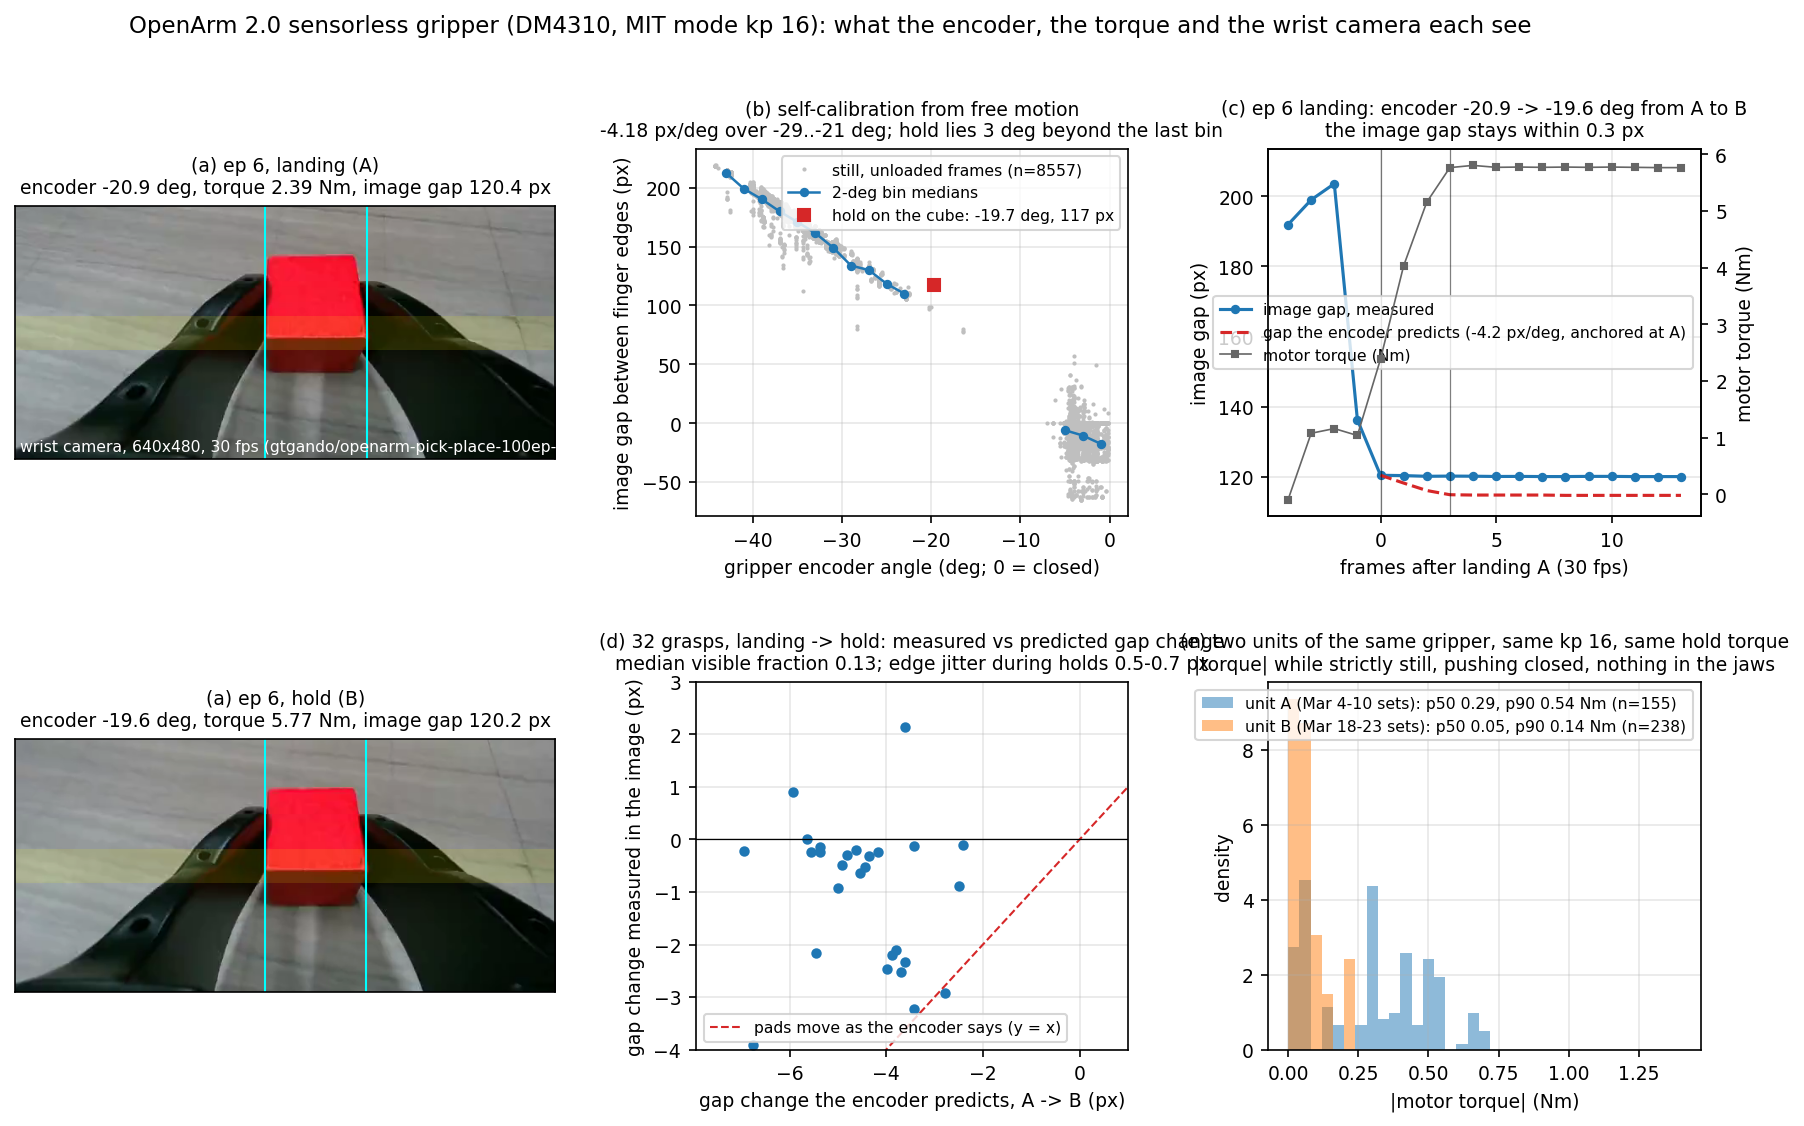
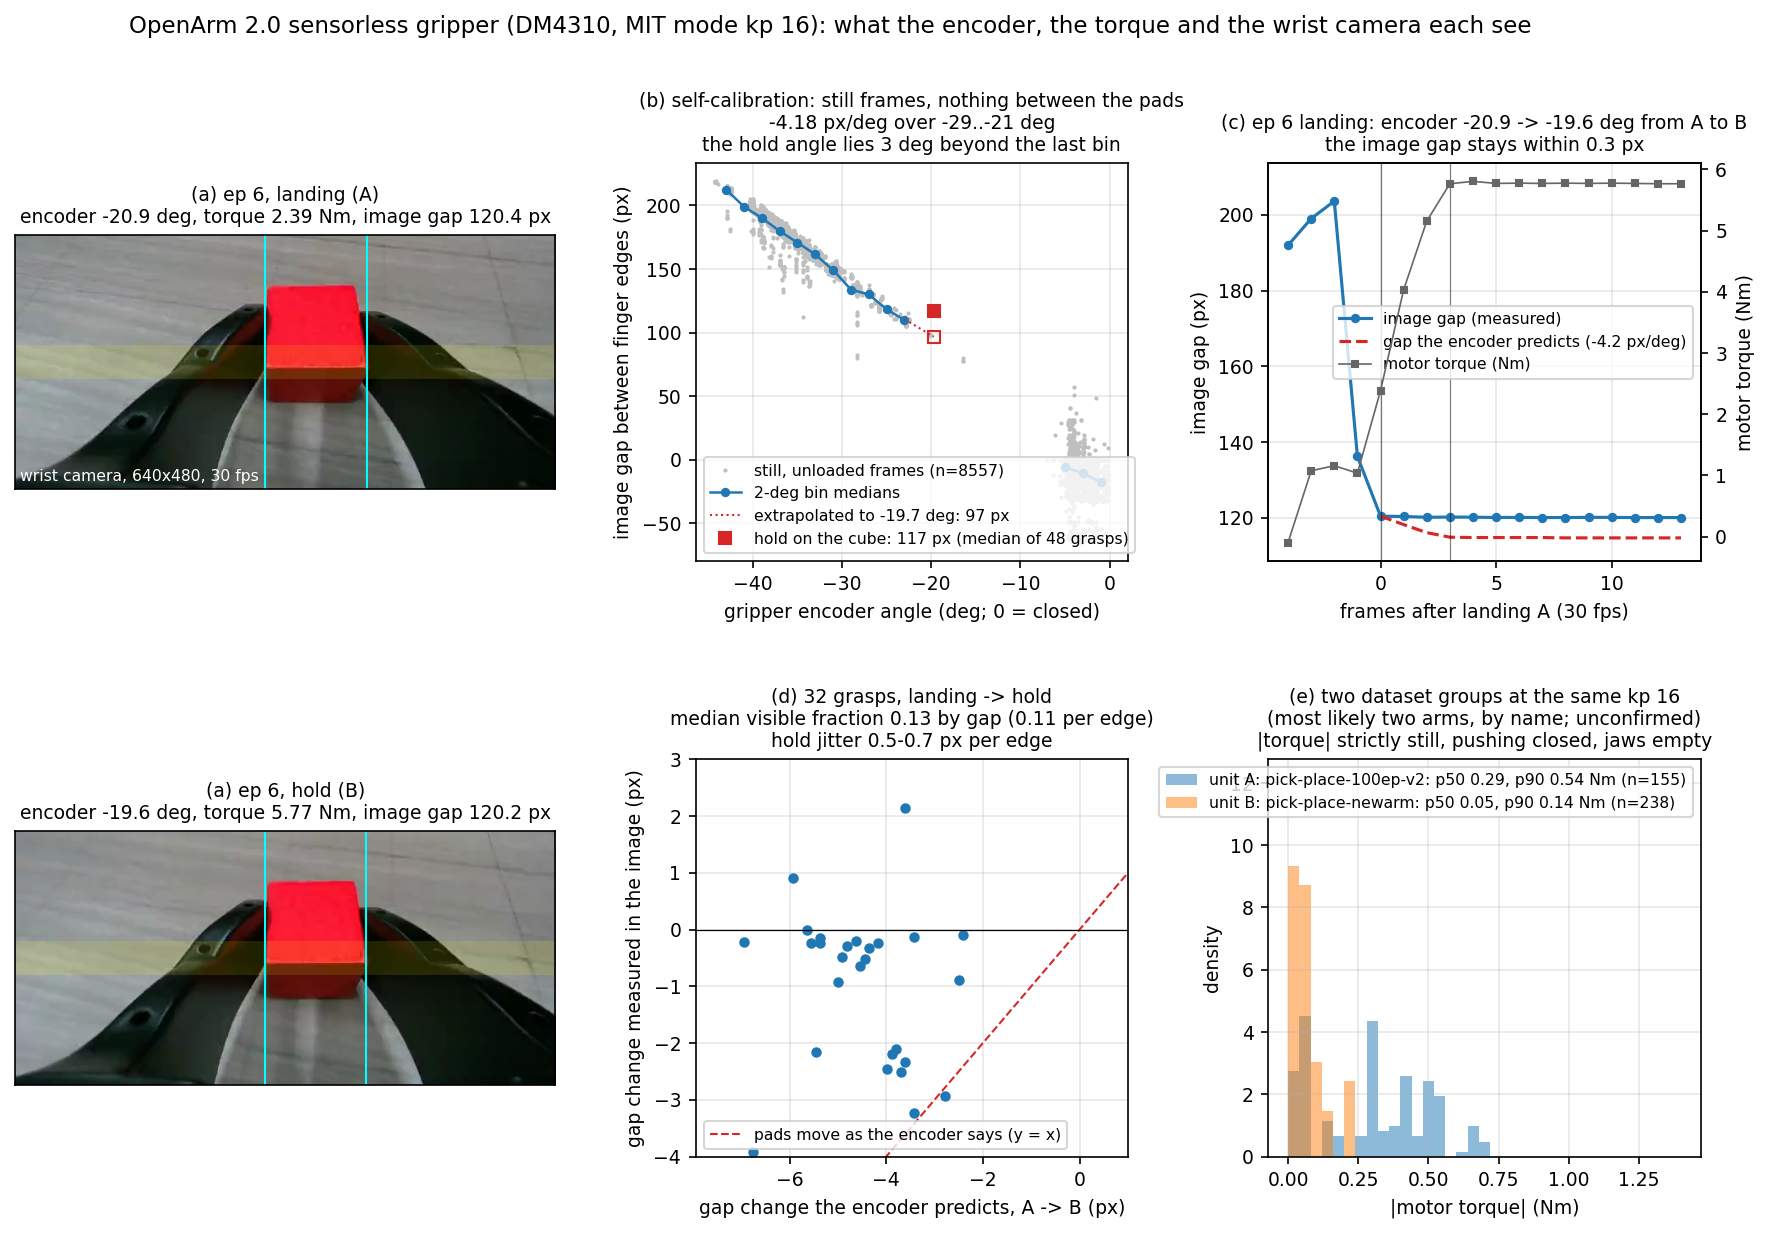
Figure regenerated to match the note; hold gap 117 px over 48 grasps; stiffness 140 Nm/rad

diff --git a/floor/floor_fig.py b/floor/floor_fig.py
@@ -1,14 +1,15 @@
 """Figure for the floor note: what the wrist camera sees while the sensorless OpenArm 2.0 gripper squeezes a wooden
-cube, and how two units of the same gripper differ in their friction band.
+cube, and how two groups of datasets recorded at the same gains (most likely two arms, by name; unconfirmed) differ in
+their friction band.
 
 Panels: (a) two frames of one grasp (landing, hold) with the detected inner finger edges; (b) image gap between the
 finger edges vs encoder angle on still, unloaded frames (self-calibration, no object between the pads); (c) one landing
 sequence: measured gap vs the gap the encoder predicts through the calibration, anchored at landing; (d) all grasps:
 predicted vs measured gap change from landing to hold; (e) |torque| on strictly still, free, push-closed frames for the
-two gripper units (band.py's criterion).
+two dataset groups (band.py's criterion).
 
 usage: python3 -I floor_fig.py --npz padcal.npz --root ROOT_A --rootB ROOT_B [--cam observation.images.cam] [--ep 6]
-       [--out floor_fig.png]"""
+       [--out floor_fig.png] [--tweet floor_fig_abd.png]   (the second file holds panels a, b, d only)"""
 import glob, json, os, subprocess, sys
 import numpy as np, pyarrow.parquet as pq, pyarrow as pa
 import matplotlib
@@ -22,7 +23,7 @@ def opt(k, d):
 
 
 NPZ, ROOT, ROOTB = opt("--npz", "padcal.npz"), opt("--root", ""), opt("--rootB", "")
-CAM, EPX, OUT = opt("--cam", "observation.images.cam"), opt("--ep", 6), opt("--out", "floor_fig.png")
+CAM, EPX, OUT, TW = opt("--cam", "observation.images.cam"), opt("--ep", 6), opt("--out", "floor_fig.png"), opt("--tweet", "")
 R0, R1 = 280, 320                                      # contact rows used by padcal.py
 
 R = np.load(NPZ)["R"]
@@ -64,6 +65,17 @@ for e in np.unique(e_):
     seqs[int(e)] = (i, A, B)
 G = np.array(G)
 frac = G[:, 5] / G[:, 6]
+# hold: one value per grasp (median over its still, loaded frames), then the median over grasps
+hold_m = (np.abs(v) < 2) & (tau > 1.5) & np.isfinite(gap)
+hold_eps = [e for e in np.unique(e_[hold_m]) if (hold_m & (e_ == e)).sum() >= 5]
+hold_gap_ep = np.array([np.median(gap[hold_m & (e_ == e)]) for e in hold_eps])
+hold_th_ep = np.array([np.median(th[hold_m & (e_ == e)]) for e in hold_eps])
+hold_th, hold_gap = np.median(hold_th_ep), np.median(hold_gap_ep)
+m_fit = (pts[:, 0] >= -29) & (pts[:, 0] <= -21)
+pf = np.polyfit(pts[m_fit, 0], pts[m_fit, 3], 1); s_hold = pf[0]; ext_gap = np.polyval(pf, hold_th)
+print(f"hold: {len(hold_eps)} grasps, encoder median {hold_th:.1f} deg, image gap median {hold_gap:.0f} px "
+      f"(IQR {np.percentile(hold_gap_ep, 25):.0f}..{np.percentile(hold_gap_ep, 75):.0f}, range {hold_gap_ep.min():.0f}..{hold_gap_ep.max():.0f}); "
+      f"free-motion line ({s_hold:+.2f} px/deg over -29..-21) extrapolated to the hold angle: {ext_gap:.0f} px")
 print(f"{len(G)} grasps; visible fraction median {np.median(frac):+.2f} (IQR {np.percentile(frac, 25):+.2f}..{np.percentile(frac, 75):+.2f}); "
       f"d_theta median {np.median(G[:, 3]):+.2f} deg, d_tau {np.median(G[:, 4]):+.2f} Nm, gap change {np.median(G[:, 5]):+.2f} px vs predicted {np.median(G[:, 6]):+.2f} px")
 
@@ -117,14 +129,15 @@ def frames_for(root, cam, e, ks):
 
 # ---- figure
 plt.rcParams.update({"font.size": 9, "axes.titlesize": 9, "axes.labelsize": 9})
-fig = plt.figure(figsize=(14.5, 7.8), dpi=150)
-gs = gridspec.GridSpec(2, 3, width_ratios=[1.25, 1, 1], wspace=0.30, hspace=0.45)
+fig = plt.figure(figsize=(14.5, 8.6), dpi=150)
+gs = gridspec.GridSpec(2, 3, width_ratios=[1.25, 1, 1], wspace=0.30, hspace=0.50)
 
 iA, A, B = seqs[EPX]
 kk = [A, B]
+axs_a = [fig.add_subplot(gs[0, 0]), fig.add_subplot(gs[1, 0])]
 if ROOT:
     fr = frames_for(ROOT, CAM, EPX, kk)
-    for j, (ax, f, k, lab) in enumerate(zip((fig.add_subplot(gs[0, 0]), fig.add_subplot(gs[1, 0])), fr, kk, ("landing (A)", "hold (B)"))):
+    for j, (ax, f, k, lab) in enumerate(zip(axs_a, fr, kk, ("landing (A)", "hold (B)"))):
         crop = f[150:450]
         ax.imshow(crop); ax.set_xticks([]); ax.set_yticks([])
         for x in (xl[iA[k]], xr[iA[k]]):
@@ -135,17 +148,19 @@ if ROOT:
                      transform=fig.axes[0].transAxes)
 
 # (b)
-ax = fig.add_subplot(gs[0, 1])
+axb = ax = fig.add_subplot(gs[0, 1])
 ax.plot(th[cal], gap[cal], ".", ms=2, color="0.75", label=f"still, unloaded frames (n={cal.sum()})")
 brk = np.nonzero(np.diff(pts[:, 0]) > 4)[0]
 for seg in np.split(np.arange(len(pts)), brk + 1):
     ax.plot(pts[seg, 0], pts[seg, 3], "o-", ms=3.5, color="C0", lw=1.2, label="2-deg bin medians" if seg[0] == 0 else None)
-hold_th = np.median(th[(np.abs(v) < 2) & (tau > 1.5)]); hold_gap = np.median(gap[(np.abs(v) < 2) & (tau > 1.5) & np.isfinite(gap)])
-s_hold = local_slope(3, -23.0)
-ax.plot([hold_th], [hold_gap], "s", color="C3", ms=6, label=f"hold on the cube: {hold_th:.1f} deg, {hold_gap:.0f} px")
+xx = np.array([pts[m_fit, 0].max(), hold_th])
+ax.plot(xx, np.polyval(pf, xx), ":", color="C3", lw=1.0, label=f"extrapolated to {hold_th:.1f} deg: {ext_gap:.0f} px")
+ax.plot([hold_th], [ext_gap], "s", mfc="none", color="C3", ms=6)
+ax.plot([hold_th], [hold_gap], "s", color="C3", ms=6,
+        label=f"hold on the cube: {hold_gap:.0f} px (median of {len(hold_eps)} grasps)")
 ax.set_xlabel("gripper encoder angle (deg; 0 = closed)"); ax.set_ylabel("image gap between finger edges (px)")
-ax.set_title(f"(b) self-calibration from free motion\n{s_hold:+.2f} px/deg over -29..-21 deg; hold lies 3 deg beyond the last bin")
-ax.legend(fontsize=7.5, loc="upper right"); ax.grid(alpha=0.3)
+ax.set_title(f"(b) self-calibration: still frames, nothing between the pads\n{s_hold:+.2f} px/deg over -29..-21 deg\nthe hold angle lies 3 deg beyond the last bin")
+ax.legend(fontsize=7.5, loc="lower left"); ax.grid(alpha=0.3)
 
 # (c)
 ax = fig.add_subplot(gs[0, 2])
@@ -153,35 +168,46 @@ w = np.arange(max(0, A - 4), min(len(iA), B + 11)); rel = w - A
 g_meas = gap[iA[w]]; s_loc = local_slope(3, th[iA[B]])
 g_pred = g_meas[rel == 0][0] + s_loc * (th[iA[w]] - th[iA[A]])
 ax.plot(rel, g_meas, "o-", color="C0", ms=3.5, label="image gap (measured)")
-ax.plot(rel[rel >= 0], g_pred[rel >= 0], "--", color="C3", label=f"gap predicted by the encoder ({s_loc:+.1f} px/deg, from A)")
+ax.plot(rel[rel >= 0], g_pred[rel >= 0], "--", color="C3", label=f"gap the encoder predicts ({s_loc:+.1f} px/deg)")
 ax.set_xlabel("frames after landing A (30 fps)"); ax.set_ylabel("image gap (px)")
 ax2 = ax.twinx(); ax2.plot(rel, tau[iA[w]], "s-", color="0.4", ms=2.5, lw=0.8, label="motor torque (Nm)"); ax2.set_ylabel("motor torque (Nm)")
 ax.axvline(0, color="k", lw=0.6, alpha=0.5); ax.axvline(B - A, color="k", lw=0.6, alpha=0.5)
 ax.set_title(f"(c) ep {EPX} landing: encoder {th[iA[A]]:.1f} -> {th[iA[B]]:.1f} deg from A to B\nthe image gap stays within 0.3 px")
-h1, l1 = ax.get_legend_handles_labels(); h2, l2 = ax2.get_legend_handles_labels(); ax.legend(h1 + h2, l1 + l2, fontsize=7.5, loc="center", bbox_to_anchor=(0.70, 0.5))
+h1, l1 = ax.get_legend_handles_labels(); h2, l2 = ax2.get_legend_handles_labels(); ax.legend(h1 + h2, l1 + l2, fontsize=7.5, loc="center right", bbox_to_anchor=(1.0, 0.55))
 ax.set_ylim(min(g_meas.min(), g_pred.min()) - 6, g_meas.max() + 10); ax.grid(alpha=0.3)
 
 # (d)
-ax = fig.add_subplot(gs[1, 1])
+axd = ax = fig.add_subplot(gs[1, 1])
 ax.plot(G[:, 6], G[:, 5], "o", color="C0", ms=4)
 lim = (min(G[:, 6].min(), -1) - 1, 1)
 ax.plot(lim, lim, "--", color="C3", lw=1, label="pads move as the encoder says (y = x)")
 ax.axhline(0, color="k", lw=0.6); ax.set_xlim(lim); ax.set_ylim(-4, 3)
 ax.set_xlabel("gap change the encoder predicts, A -> B (px)"); ax.set_ylabel("gap change measured in the image (px)")
-ax.set_title(f"(d) {len(G)} grasps, landing -> hold\nmedian visible fraction {np.median(frac):.2f}; hold jitter 0.5-0.7 px")
+ax.set_title(f"(d) {len(G)} grasps, landing -> hold\nmedian visible fraction {np.median(frac):.2f} by gap (0.11 per edge)\nhold jitter 0.5-0.7 px per edge")
 ax.legend(fontsize=7.5, loc="lower left"); ax.grid(alpha=0.3)
 
 # (e)
 ax = fig.add_subplot(gs[1, 2])
 edges = np.linspace(0, 1.4, 36)
-for lab, b, c in (("unit A (Mar 4-10 sets)", bA, "C0"), ("unit B (Mar 18-23 sets)", bB, "C1")):
+for lab, b, c in (("unit A: pick-place-100ep-v2", bA, "C0"), ("unit B: pick-place-newarm", bB, "C1")):
     if b is None: continue
     ax.hist(b[0], bins=edges, density=True, alpha=0.5, color=c,
             label=f"{lab}: p50 {np.median(b[0]):.2f}, p90 {np.percentile(b[0], 90):.2f} Nm (n={len(b[0])})")
-ax.set_xlabel("|motor torque| (Nm)"); ax.set_ylabel("density")
-ax.set_title("(e) two units of the same gripper, same kp 16\n|torque| while strictly still, pushing closed, jaws empty")
+ax.set_xlabel("|motor torque| (Nm)"); ax.set_ylabel("density"); ax.set_ylim(0, ax.get_ylim()[1] * 1.3)
+ax.set_title("(e) two dataset groups at the same kp 16\n(most likely two arms, by name; unconfirmed)\n|torque| strictly still, pushing closed, jaws empty")
 ax.legend(fontsize=7.5); ax.grid(alpha=0.3)
 
-fig.suptitle("OpenArm 2.0 sensorless gripper (DM4310, MIT mode kp 16): what the encoder, the torque and the wrist camera each see", fontsize=11, y=0.995)
+st = fig.suptitle("OpenArm 2.0 sensorless gripper (DM4310, MIT mode kp 16): what the encoder, the torque and the wrist camera each see", fontsize=11, y=0.995)
 fig.savefig(OUT, bbox_inches="tight")
 print("wrote", OUT)
+
+if TW:                                                 # panels a, b, d only, for a post
+    from matplotlib.transforms import Bbox
+    keep = axs_a + [axb, axd]
+    for a in fig.axes:
+        a.set_visible(a in keep)
+    st.set_visible(False)
+    r = fig.canvas.get_renderer()
+    bb = Bbox.union([a.get_tightbbox(r) for a in keep]).transformed(fig.dpi_scale_trans.inverted()).expanded(1.03, 1.03)
+    fig.savefig(TW, bbox_inches=bb)
+    print("wrote", TW)

diff --git a/notes/floor_en.md b/notes/floor_en.md
@@ -27,7 +27,7 @@ funding, the data of other people. Figure: `floor_fig.png` (panels a–e).
 5. **After the pads land on a rigid object, the motor encoder keeps moving but the pads do not.** On 32 grasps of a wooden
    cube seen by the wrist camera, the encoder advances +1.02° while torque rises +2.49 Nm, and the finger edges move in the
    image by 0.11 of what the camera's own calibration predicts (median per edge; IQR 0.04–0.52). About 90 % of the
-   post-contact encoder travel is compliance between motor and pad (≈ 143 Nm/rad, *computed*). (§6.1–6.2)
+   post-contact encoder travel is compliance between motor and pad (≈ 140 Nm/rad, *computed*). (§6.1–6.2)
 6. **Unit A's level is a session value, not a constant of the unit.** It steps by 17 % between upload batches of a single
    dataset with the jaw angles and speeds matched (0.779 / 0.769 → 0.637 Nm; 0.789 → 0.652 Nm; bootstrap intervals
    disjoint). Four batches uploaded the same day span max/min 1.14; inside one batch the halves of 100ep-v2 agree to
@@ -235,7 +235,7 @@ Loading the measured floor into the official MJCF (`mjcf_floor.py`, *computed*):
 at 2 °/s under 0.11 Nm; `damping` 0, because the official 0.6 adds a viscous 1.2 × v that the data does not show
 (§4.2). A session-faithful model of unit A would also carry the angle-dependent opening side of §4.4 and a per-session
 level in 0.61–0.85 Nm (0.61–0.92 per dataset). After contact the MJCF's τ–q slope is 1050–1150 Nm/rad, 7–8× stiffer than
-the ≈ 143 Nm/rad computed in §6.2.
+the ≈ 140 Nm/rad computed in §6.2.
 
 ## 6. The wrist camera versus the encoder (measured)
 
@@ -255,13 +255,18 @@ scatter during holds.
 ### 6.2 Results on the wooden cube (unit A)
 
 - Calibration is smooth and monotone: left edge +2.63 px/deg, right −2.51 px/deg, gap −5.14 px/deg over −45..−21°
-  (4–5 px/deg near the hold angle). Extrapolated to the hold angle it gives a gap ≈ 100 px; the measured gap at hold is
-  ≈ 109 px with a 95–110 px cube between the pads (panel b). The ≈ 9 px excess has the sign a loaded, wound-up finger
-  would give; it is a 3° extrapolation into a changed scene, so it is listed as consistent, not as a measurement.
+  (4–5 px/deg near the hold angle). Extrapolated to the hold angle (−19.7°) the free-motion line gives a gap ≈ 97 px
+  (−4.18 px/deg fitted over −29..−21°; ≈ 100 px with the wider-range slope in the notes). The measured gap at hold is
+  117 px (median over 48 grasps, one value per grasp; IQR 111–122, range 95–136; the two example episodes in the notes
+  sit at 109 px; the cube's red width is 95–110 px) (panel b). The ≈ 20 px excess has the sign a loaded, wound-up
+  finger would give, but it is a 3° extrapolation into a changed scene, and the 40 px range across grasps says the hold
+  gap depends on more than the finger angle (how the cube sits between the pads), so it is listed as consistent, not as
+  a measurement.
 - 32 grasps. Encoder A→B: +1.02° (median; 0.57–1.64). Torque: +2.49 Nm. Predicted gap change: −5.1 px (−5.14 px/deg
   × 1.02°). Measured: +0.09 / −0.36 px (left / right edge). Visible fraction: median 0.11 per edge (IQR 0.04–0.52).
-  Arm-still subset (11 grasps, arm joint speed < 5 °/s): 0.14. Panel d of the figure also shows a gap-based variant
-  (−0.58 px, fraction 0.13) that is computed in `floor_fig.py` and is not in the notes.
+  Arm-still subset (11 grasps, arm joint speed < 5 °/s): 0.14. Panel d of the figure shows a gap-based variant computed
+  in `floor_fig.py` with the local slope near the hold angle (−4.2 px/deg): predicted −4.3 px, measured −0.58 px,
+  fraction 0.13 (IQR 0.04–0.63); it is not in the notes.
 - Edge scatter during holds: 0.70 px left, 0.49 px right (median of per-episode std). The predicted 2–4 px per pad is
   ≥ 4σ above it.
 - Timing. The image lags the state by about one frame in the landing sequences. Recomputing (b) with assumed lags
@@ -275,7 +280,7 @@ scatter during holds.
 **Reading** (confidence medium–high; one object, one unit, compressed video). About 90 % (median; 48–96 % over the IQR)
 of the ≈ 0.4 deg/Nm the encoder
 shows after contact is wind-up between the motor's encoder and the pad. A wooden cube does not shrink 1 mm per side, and
-the camera confirms the pads do not move. The gripper's own stiffness seen from the motor is ≈ 143 Nm/rad (*computed*
+the camera confirms the pads do not move. The gripper's own stiffness seen from the motor is ≈ 140 Nm/rad (*computed*
 from 1.02° / 2.49 Nm); objects stiffer than that are invisible to the encoder. The camera resolves the pad–object
 boundary to 0.5–0.7 px per edge, ≈ 0.2–0.27° of finger angle (per-edge slope 2.5–2.6 px/deg; unit B 0.4–0.8°), from
 640×480 H.264 at 30 fps; the 2.0 hardware's 1920×1200 global-shutter camera (official docs; frame rate not verified)
@@ -319,7 +324,7 @@ jitter 0.20–0.24 px. r = visible pad motion ÷ encoder-predicted motion, as in
   strawberry A→B5 0.37°; the cube's full A→B_end advance is 1.25°). The pads follow about half of the encoder's advance
   on the strawberry (post hoc 0.55–0.70) and almost none of it on the cube. This is a different unit, camera and
   detector, not a same-system control.
-- Under the series-spring model r = k_g / (k_g + 4 k_obj r_c²) with unit A's k_g borrowed (≈ 143 Nm/rad, used as 140) and r_c 0.06–0.097
+- Under the series-spring model r = k_g / (k_g + 4 k_obj r_c²) with unit A's k_g borrowed (≈ 140 Nm/rad) and r_c 0.06–0.097
   m, the post-hoc r gives k_obj 1.6–7.9 N/mm (1.6–11.6 with the open-end calibration): at the lower end of the
   pre-registered band for a fake (2–50 N/mm; the prop's material is not known) and 2–10× stiffer than a real strawberry.
   Compression itself is not visible (≈ 0.4 px per pad expected; the montages show none). Camera motion during the hold
@@ -387,7 +392,7 @@ the newton figures; it is not separated from a zero offset.
 | gravity 0.020 [0.002, 0.037] Nm (bound 0.045 for any mounting), dynamics ≤ 0.002 Nm | MJCF kinematics regression; speed and acceleration terms, post hoc | medium–high |
 | encoder +1.02°, τ +2.49 Nm after landing | 32 grasps | high |
 | pads move 0.11 of prediction (IQR 0.04–0.52) | 32 grasps, predicted motion ≥ 4σ above jitter, lag checked | medium–high |
-| 143 Nm/rad gripper stiffness | ratio of the two medians | computed |
+| 140 Nm/rad gripper stiffness | ratio of the two medians, 2.49 Nm / 1.02° | computed |
 | camera resolution ≈ 0.2–0.27° per edge (A), 0.4–0.8° (B) | per-edge jitter ÷ per-edge slope | medium |
 | fake strawberry r, pre-registered 0.39 / 0.64 | 71 / 32 grasps, ill-conditioned window | undecided |
 | fake strawberry r, post hoc 0.55–0.70 (0.46–0.59 other calibration) | windows chosen after the data, two uploads agree, calibration-dependent | medium, post hoc |
@@ -417,8 +422,15 @@ All in the Japanese notes with time stamps; collected here so the reader sees wh
 - Hold torque "5.01–5.45 Nm across seven sets" (10-12 draft and the first version of this note) → **5.01–5.31 Nm across
   five sets**; neither 5.45 nor a seventh set is in the notes.
 - Camera fraction "0.11–0.13" → **0.11** (per edge, as in the notes); 0.13 is a gap-based variant computed only in the
-  figure script. "Predicted −4.3 to −5.1 px" → **−5.1 px**; "IQR 0.04–0.6" → **0.04–0.52**; "hold gap 109–120 px" →
-  **≈ 109 px**; "4σ–8σ" → **≥ 4σ**.
+  figure script. "Predicted −4.3 to −5.1 px" → **−5.1 px** (−4.3 px is the figure's local-slope value, panel d);
+  "IQR 0.04–0.6" → **0.04–0.52**; "4σ–8σ" → **≥ 4σ**. "Hold gap 109–120 px" was first narrowed to "≈ 109 px" (the two
+  example episodes in the notes); when the figure was regenerated for release (2026-10-13) the median over 48 grasps was
+  measured as **117 px** (IQR 111–122) against an extrapolated 97 px, and §6.2 now says so.
+- Stiffness "≈ 143 Nm/rad" → **≈ 140 Nm/rad** (2026-10-13): 143 was 1 / (0.4 deg/Nm) with the ratio rounded first;
+  2.49 Nm / 1.02° gives 140. Nothing downstream changes (§6.3 already used 140).
+- Figure regenerated 2026-10-13 so that its titles say no more than the body: panel (e) "two units of the same gripper"
+  → two dataset groups, most likely two arms (unconfirmed); panel (d) labels the 0.13 as gap-based and names the 0.11
+  per edge; panel (b) shows both the measured hold gap (117 px) and the free-motion extrapolation (97 px).
 - Newtons: the Japanese notes convert unit A's pooled level (0.60–0.65 Nm → 3–5 N) and unit B's still band (0.3–0.7 N);
   the per-session 3–7 N and unit B's kinetic 1.0–1.7 N in §7 are conversions made for this note. The first version of
   this note wrote 3–8 N and 1–2 N.
